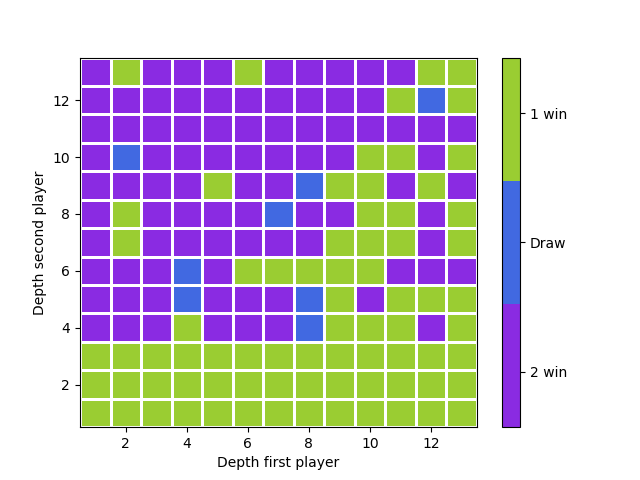
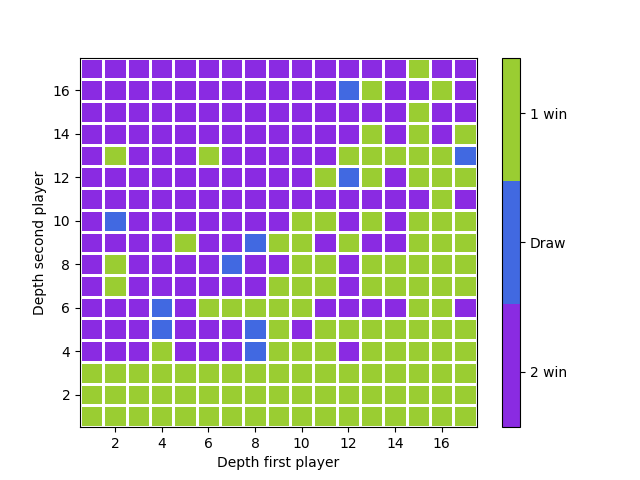
Update the plot

diff --git a/Report.tex b/Report.tex
@@ -49,7 +49,8 @@
 
 	\section{Setting up}
 	When the previous requirements are fulfilled, you only need to use the \textit{launch.sh} script, and every other software and libraries required should be installed. \\
-	If the script does not find something, then it prints it and launches the program with some options disabled.
+	If the script does not find something, then it prints it and launches the program with some options disabled. \\
+	If you want to use Bluetooth in server mode, then you need to run the script as root (under Linux, you just need to use \textit{sudo ./launch.sh}). It is because advertising the Bluetooth service need root permission.
 
 	\section{Indications}
 	Once the program opens, you should be able to understand easily what to do, and how to do it. However, if it is needed, here is the explanation about the different screens of the game. \\
@@ -71,13 +72,12 @@
 
 	\section{Interface}
 	For the interface, we chose to use Python for its ease of use. We used classes because this representation is very flexible and close to what we want. \\
+	The most challenging part in writing the interface was managing to integrate the communication, AI, and gestures recognition in the code in a way that makes it easy to modify things. Using classes was a way to solve those problems before they became hindrances. \\
 
 	Each “screen” of the game (All the menus + the game screen (with the board)) is its own class, inherited from a base class common to all screens. The basic principle to display things is the same, only the content is different. This way, a graphical continuity is preserved between all screens. \\
 
 	Classes are made for each player, the board of the game, the gestures, the AI, and the communication, as well as for the game itself. \\
 	This way, all the code is well compartmented and we can easily change how something is done in the backend as long as we don't change the API (meaning, the arguments and return statements of the functions) calls. \\
-
-	The most challenging part in writing the interface was managing to integrate the communication, AI, and gestures recognition in the code in a way that makes it easy to modify things. Using classes was a way to solve those problems before they became hindrances.
 
 	\section{AI}\label{AI_section}
 

diff --git a/ai/eval_ai_plot.py b/ai/eval_ai_plot.py
@@ -54,12 +54,12 @@ def plot_result(x, y, tableau):
     plt.close()
 
 
-max_level = 13
+max_level = 17
 tableau = np.zeros((max_level, max_level))
 x = np.linspace(1, max_level, max_level)
 y = np.linspace(1, max_level, max_level)
 
-for i in range(max_level):
-    for j in range(max_level):
-        tableau[j, i] = test_for_plot(i + 1, j + 1)
-        plot_result(x, y, tableau)
+# for i in range(max_level):
+#     for j in range(max_level):
+#         tableau[j, i] = test_for_plot(i + 1, j + 1)
+#         plot_result(x, y, tableau)

diff --git a/core/screens.py b/core/screens.py
@@ -282,6 +282,7 @@ class Screen(Tools):
             if self.comm is not None:
                 self.comm.send("201")
                 self.comm.sock.close()
+                print("Closing the last thread...")
                 self.comm.thread_connections.join()
             print(self.conf.message_quit)
             pg.quit()
